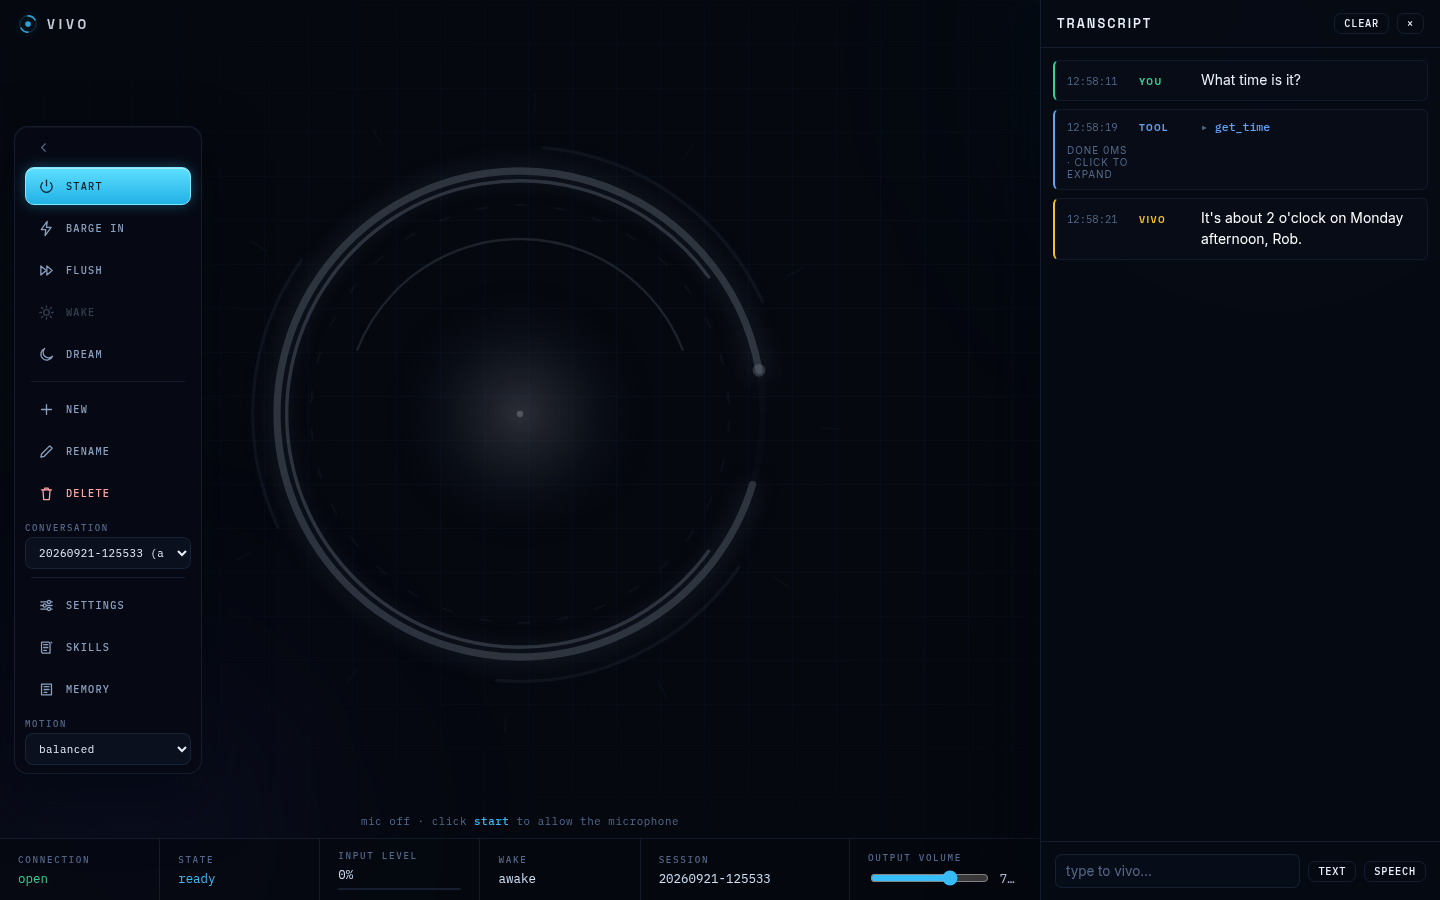
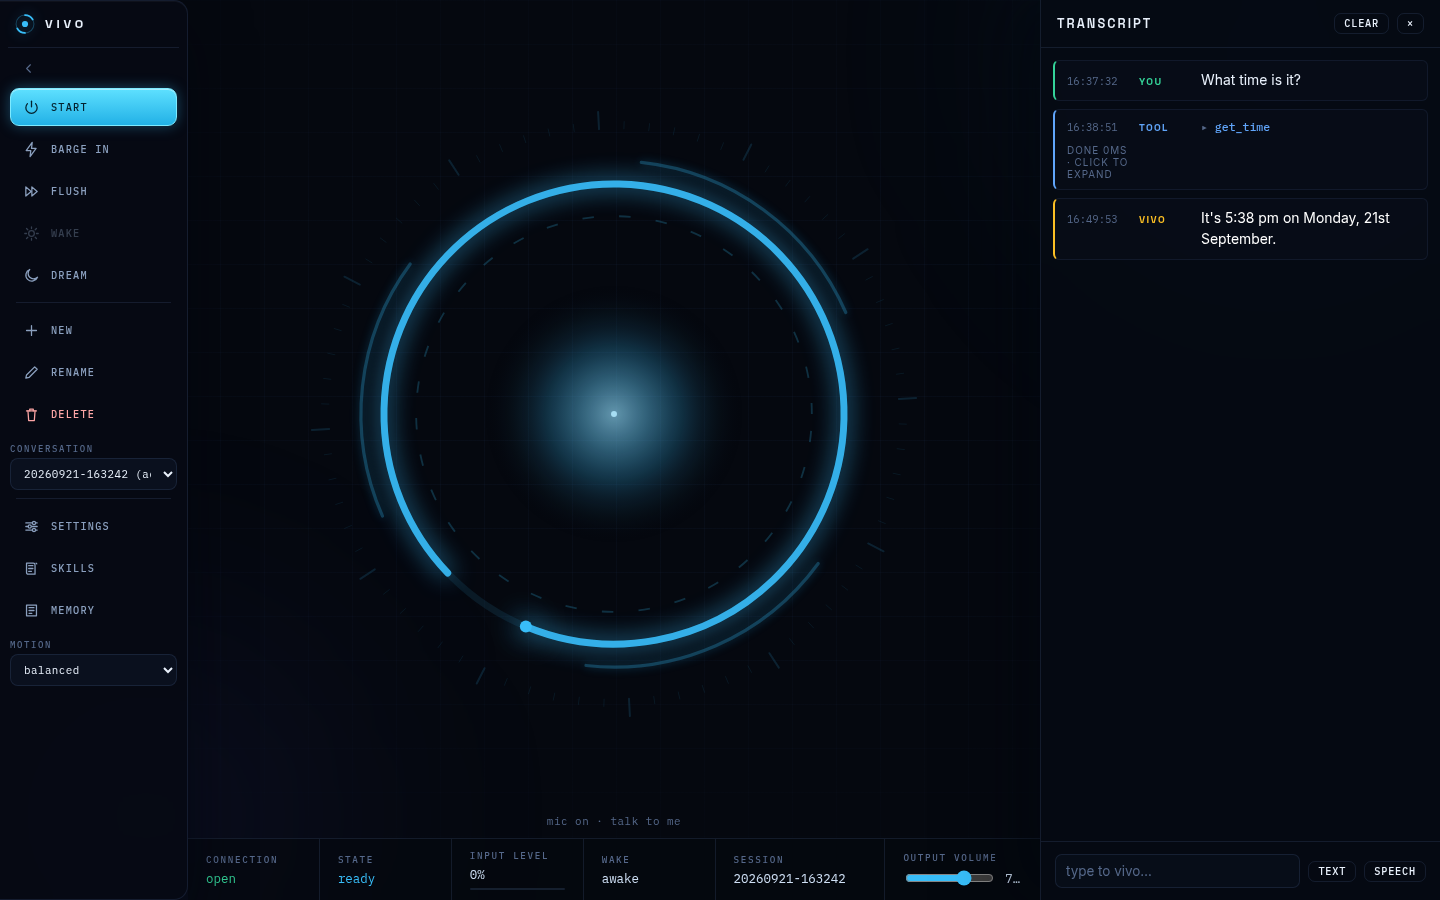
Refresh console UI and README screenshots
- move VIVO brand from top-left header into the sidenav
- broadcast sessions_changed when tools rename/delete a conversation so other tabs refresh their session dropdown
- recapture all six README screenshots for the new layout
- replace vivo-minimal-idle.png with banner.png

diff --git a/static/style.css b/static/style.css
@@ -39,6 +39,11 @@ body {
   color: var(--text);
   font-family: var(--font-ui);
   overflow: hidden;
+  --sidenav-w: 64px;
+}
+
+body.nav-expanded {
+  --sidenav-w: 188px;
 }
 
 /* ---------------- background ---------------- */
@@ -85,45 +90,16 @@ body {
   animation: drift 34s ease-in-out infinite alternate-reverse;
 }
 
-/* ---------------- brand mark ---------------- */
-
-.brand-mini {
-  position: fixed;
-  top: 14px;
-  left: 18px;
-  z-index: 8;
-  display: flex;
-  align-items: center;
-  gap: 9px;
-  pointer-events: none;
-  opacity: 0.85;
-}
-
-.brand-mini svg {
-  width: 20px;
-  height: 20px;
-  color: var(--accent);
-  filter: drop-shadow(0 0 7px rgba(56, 189, 248, 0.45));
-}
-
-.brand-mini span {
-  font-family: var(--font-display);
-  font-weight: 700;
-  font-size: 0.8rem;
-  letter-spacing: 0.3em;
-  text-transform: uppercase;
-}
-
 /* ---------------- full-screen stage ---------------- */
 
 .stage-root {
   position: fixed;
-  left: 0;
+  left: var(--sidenav-w);
   top: 0;
   bottom: 0;
   right: 0;
   z-index: 1;
-  transition: right 260ms cubic-bezier(0.22, 0.8, 0.26, 1);
+  transition: left 220ms cubic-bezier(0.22, 0.8, 0.26, 1), right 260ms cubic-bezier(0.22, 0.8, 0.26, 1);
 }
 
 body.transcript-open .stage-root {
@@ -172,17 +148,6 @@ body.transcript-open .caption {
   width: min(90%, 900px);
 }
 
-@media (min-width: 621px) {
-  body.nav-expanded .caption {
-    left: calc(50% + 104px);
-    width: min(calc(78vw - 208px), 980px);
-  }
-
-  body.nav-expanded.transcript-open .caption {
-    width: min(calc(90% - 208px), 900px);
-  }
-}
-
 .hint {
   position: absolute;
   left: 50%;
@@ -206,19 +171,72 @@ body.transcript-open .caption {
 
 .sidenav {
   position: fixed;
-  left: 14px;
-  top: 50%;
-  transform: translateY(-50%);
+  left: 0;
+  top: 0;
+  bottom: 0;
   z-index: 8;
+  width: 64px;
   display: flex;
   flex-direction: column;
   gap: 2px;
-  padding: 8px;
+  padding: 10px 8px;
   border: 1px solid var(--line);
-  border-radius: 14px;
+  border-left: none;
+  border-radius: 0 14px 14px 0;
   background: var(--panel-strong);
   backdrop-filter: blur(14px);
   box-shadow: var(--shadow), inset 0 1px 0 rgba(255, 255, 255, 0.04);
+  overflow-y: auto;
+  overflow-x: hidden;
+  transition: width 220ms cubic-bezier(0.22, 0.8, 0.26, 1);
+}
+
+.sidenav::-webkit-scrollbar {
+  width: 6px;
+}
+
+.sidenav::-webkit-scrollbar-thumb {
+  background: rgba(120, 165, 235, 0.25);
+  border-radius: 8px;
+}
+
+.nav-brand {
+  flex: none;
+  display: flex;
+  align-items: center;
+  justify-content: center;
+  gap: 9px;
+  padding: 2px 2px 12px;
+  margin-bottom: 6px;
+  border-bottom: 1px solid var(--line);
+  color: var(--accent);
+}
+
+.nav-brand svg {
+  width: 22px;
+  height: 22px;
+  flex: none;
+  filter: drop-shadow(0 0 7px rgba(56, 189, 248, 0.45));
+}
+
+.nav-brand-text {
+  display: none;
+  font-family: var(--font-display);
+  font-weight: 700;
+  font-size: 0.78rem;
+  letter-spacing: 0.3em;
+  text-transform: uppercase;
+  color: var(--text);
+  white-space: nowrap;
+}
+
+.sidenav.expanded .nav-brand {
+  justify-content: flex-start;
+  padding-left: 6px;
+}
+
+.sidenav.expanded .nav-brand-text {
+  display: block;
 }
 
 .nav-toggle {
@@ -739,7 +757,7 @@ body.transcript-open .transcript-panel {
 
 .telemetry {
   position: fixed;
-  left: 0;
+  left: var(--sidenav-w);
   right: 0;
   bottom: 0;
   z-index: 6;
@@ -748,7 +766,7 @@ body.transcript-open .transcript-panel {
   border-top: 1px solid var(--line);
   background: rgba(5, 8, 15, 0.62);
   backdrop-filter: blur(14px);
-  transition: right 260ms cubic-bezier(0.22, 0.8, 0.26, 1);
+  transition: left 220ms cubic-bezier(0.22, 0.8, 0.26, 1), right 260ms cubic-bezier(0.22, 0.8, 0.26, 1);
 }
 
 body.transcript-open .telemetry {
@@ -1523,13 +1541,27 @@ button.danger-action:hover {
 }
 
 @media (max-width: 620px) {
-  .brand-mini {
+  body {
+    --sidenav-w: 52px;
+  }
+
+  body.nav-expanded {
+    --sidenav-w: 168px;
+  }
+
+  .nav-brand-text {
     display: none;
   }
 
   .sidenav {
-    left: 8px;
+    left: 0;
     padding: 6px;
+    width: 52px;
+  }
+
+  .nav-brand svg {
+    width: 18px;
+    height: 18px;
   }
 
   .nav-btn,
@@ -1544,6 +1576,14 @@ button.danger-action:hover {
 
   .sidenav.expanded {
     width: 168px;
+  }
+
+  .sidenav.expanded .nav-brand {
+    justify-content: flex-start;
+  }
+
+  .sidenav.expanded .nav-brand-text {
+    display: block;
   }
 
   .sidenav.expanded .nav-btn {

diff --git a/static/index.html b/static/index.html
@@ -17,16 +17,6 @@
     <div class="bg-glow bg-glow-b"></div>
   </div>
 
-  <header class="brand-mini" aria-hidden="true">
-    <svg viewBox="0 0 32 32" fill="none">
-      <circle cx="16" cy="16" r="13" stroke="currentColor" stroke-opacity="0.3" stroke-width="1.5"/>
-      <path d="M16 3 A13 13 0 0 1 27.26 9.5" stroke="currentColor" stroke-width="2.5" stroke-linecap="round"/>
-      <path d="M16 29 A13 13 0 0 1 4.74 22.5" stroke="currentColor" stroke-width="2.5" stroke-linecap="round"/>
-      <circle cx="16" cy="16" r="4.5" fill="currentColor"/>
-    </svg>
-    <span>vivo</span>
-  </header>
-
   <div class="stage-root" aria-label="Live voice">
     <canvas id="dot" aria-label="Vivo state ring"></canvas>
     <p class="caption" id="caption" aria-live="polite"></p>
@@ -34,6 +24,15 @@
   </div>
 
   <nav class="sidenav" id="sidenav" aria-label="Controls">
+    <div class="nav-brand" aria-hidden="true">
+      <svg viewBox="0 0 32 32" fill="none">
+        <circle cx="16" cy="16" r="13" stroke="currentColor" stroke-opacity="0.3" stroke-width="1.5"/>
+        <path d="M16 3 A13 13 0 0 1 27.26 9.5" stroke="currentColor" stroke-width="2.5" stroke-linecap="round"/>
+        <path d="M16 29 A13 13 0 0 1 4.74 22.5" stroke="currentColor" stroke-width="2.5" stroke-linecap="round"/>
+        <circle cx="16" cy="16" r="4.5" fill="currentColor"/>
+      </svg>
+      <span class="nav-brand-text">VIVO</span>
+    </div>
     <button class="nav-toggle" id="nav-toggle" title="Expand controls" aria-expanded="false" aria-controls="sidenav">
       <svg viewBox="0 0 24 24" fill="none" stroke="currentColor" stroke-width="1.8" stroke-linecap="round" stroke-linejoin="round">
         <path d="M9 6l6 6-6 6"/>

diff --git a/static/app.js b/static/app.js
@@ -475,6 +475,13 @@ function handleServerJson(m) {
       hydrateTranscript(m.id);
       if (m.created) addEntry("hint", "&mdash; new conversation &mdash;");
       return; // never touches the status UI
+    case "sessions_changed":
+      // another conversation was renamed/deleted by a tool call — refresh the
+      // dropdown without disturbing this tab's current selection
+      loadSessions().then(() => {
+        if (S.sessionId) el.sessionSelect.value = S.sessionId;
+      });
+      return;
     case "pong":
       break;
   }

diff --git a/app/pipeline.py b/app/pipeline.py
@@ -645,6 +645,7 @@ class VoiceSession:
             if not label:
                 return "error: conversation name is required"
             store.rename(session_id, label)
+            self.send({"type": "sessions_changed"})
             return f"renamed conversation {session_id} to {label}"
         if name == "delete_conversation":
             session_id = self._conversation_id(args.get("id"))
@@ -655,6 +656,8 @@ class VoiceSession:
             if was_current:
                 self.switch_session(store.active_id)
                 self.send({"type": "session", "id": self.session_id})
+            else:
+                self.send({"type": "sessions_changed"})
             return f"deleted conversation {session_id}"
         return None
 

diff --git a/README.md b/README.md
@@ -4,7 +4,7 @@ Vivo is a CPU-only voice assistant that runs entirely on your machine in one Doc
 
 Built for local-first personal assistance: quick conversations, file and shell access inside a workspace, memory, reminders, and tools for browsing and task execution without leaving the browser.
 
-![vivo idle UI](vivo-minimal-idle.png)
+![vivo console UI](banner.png)
 
 ## Screenshots
 
